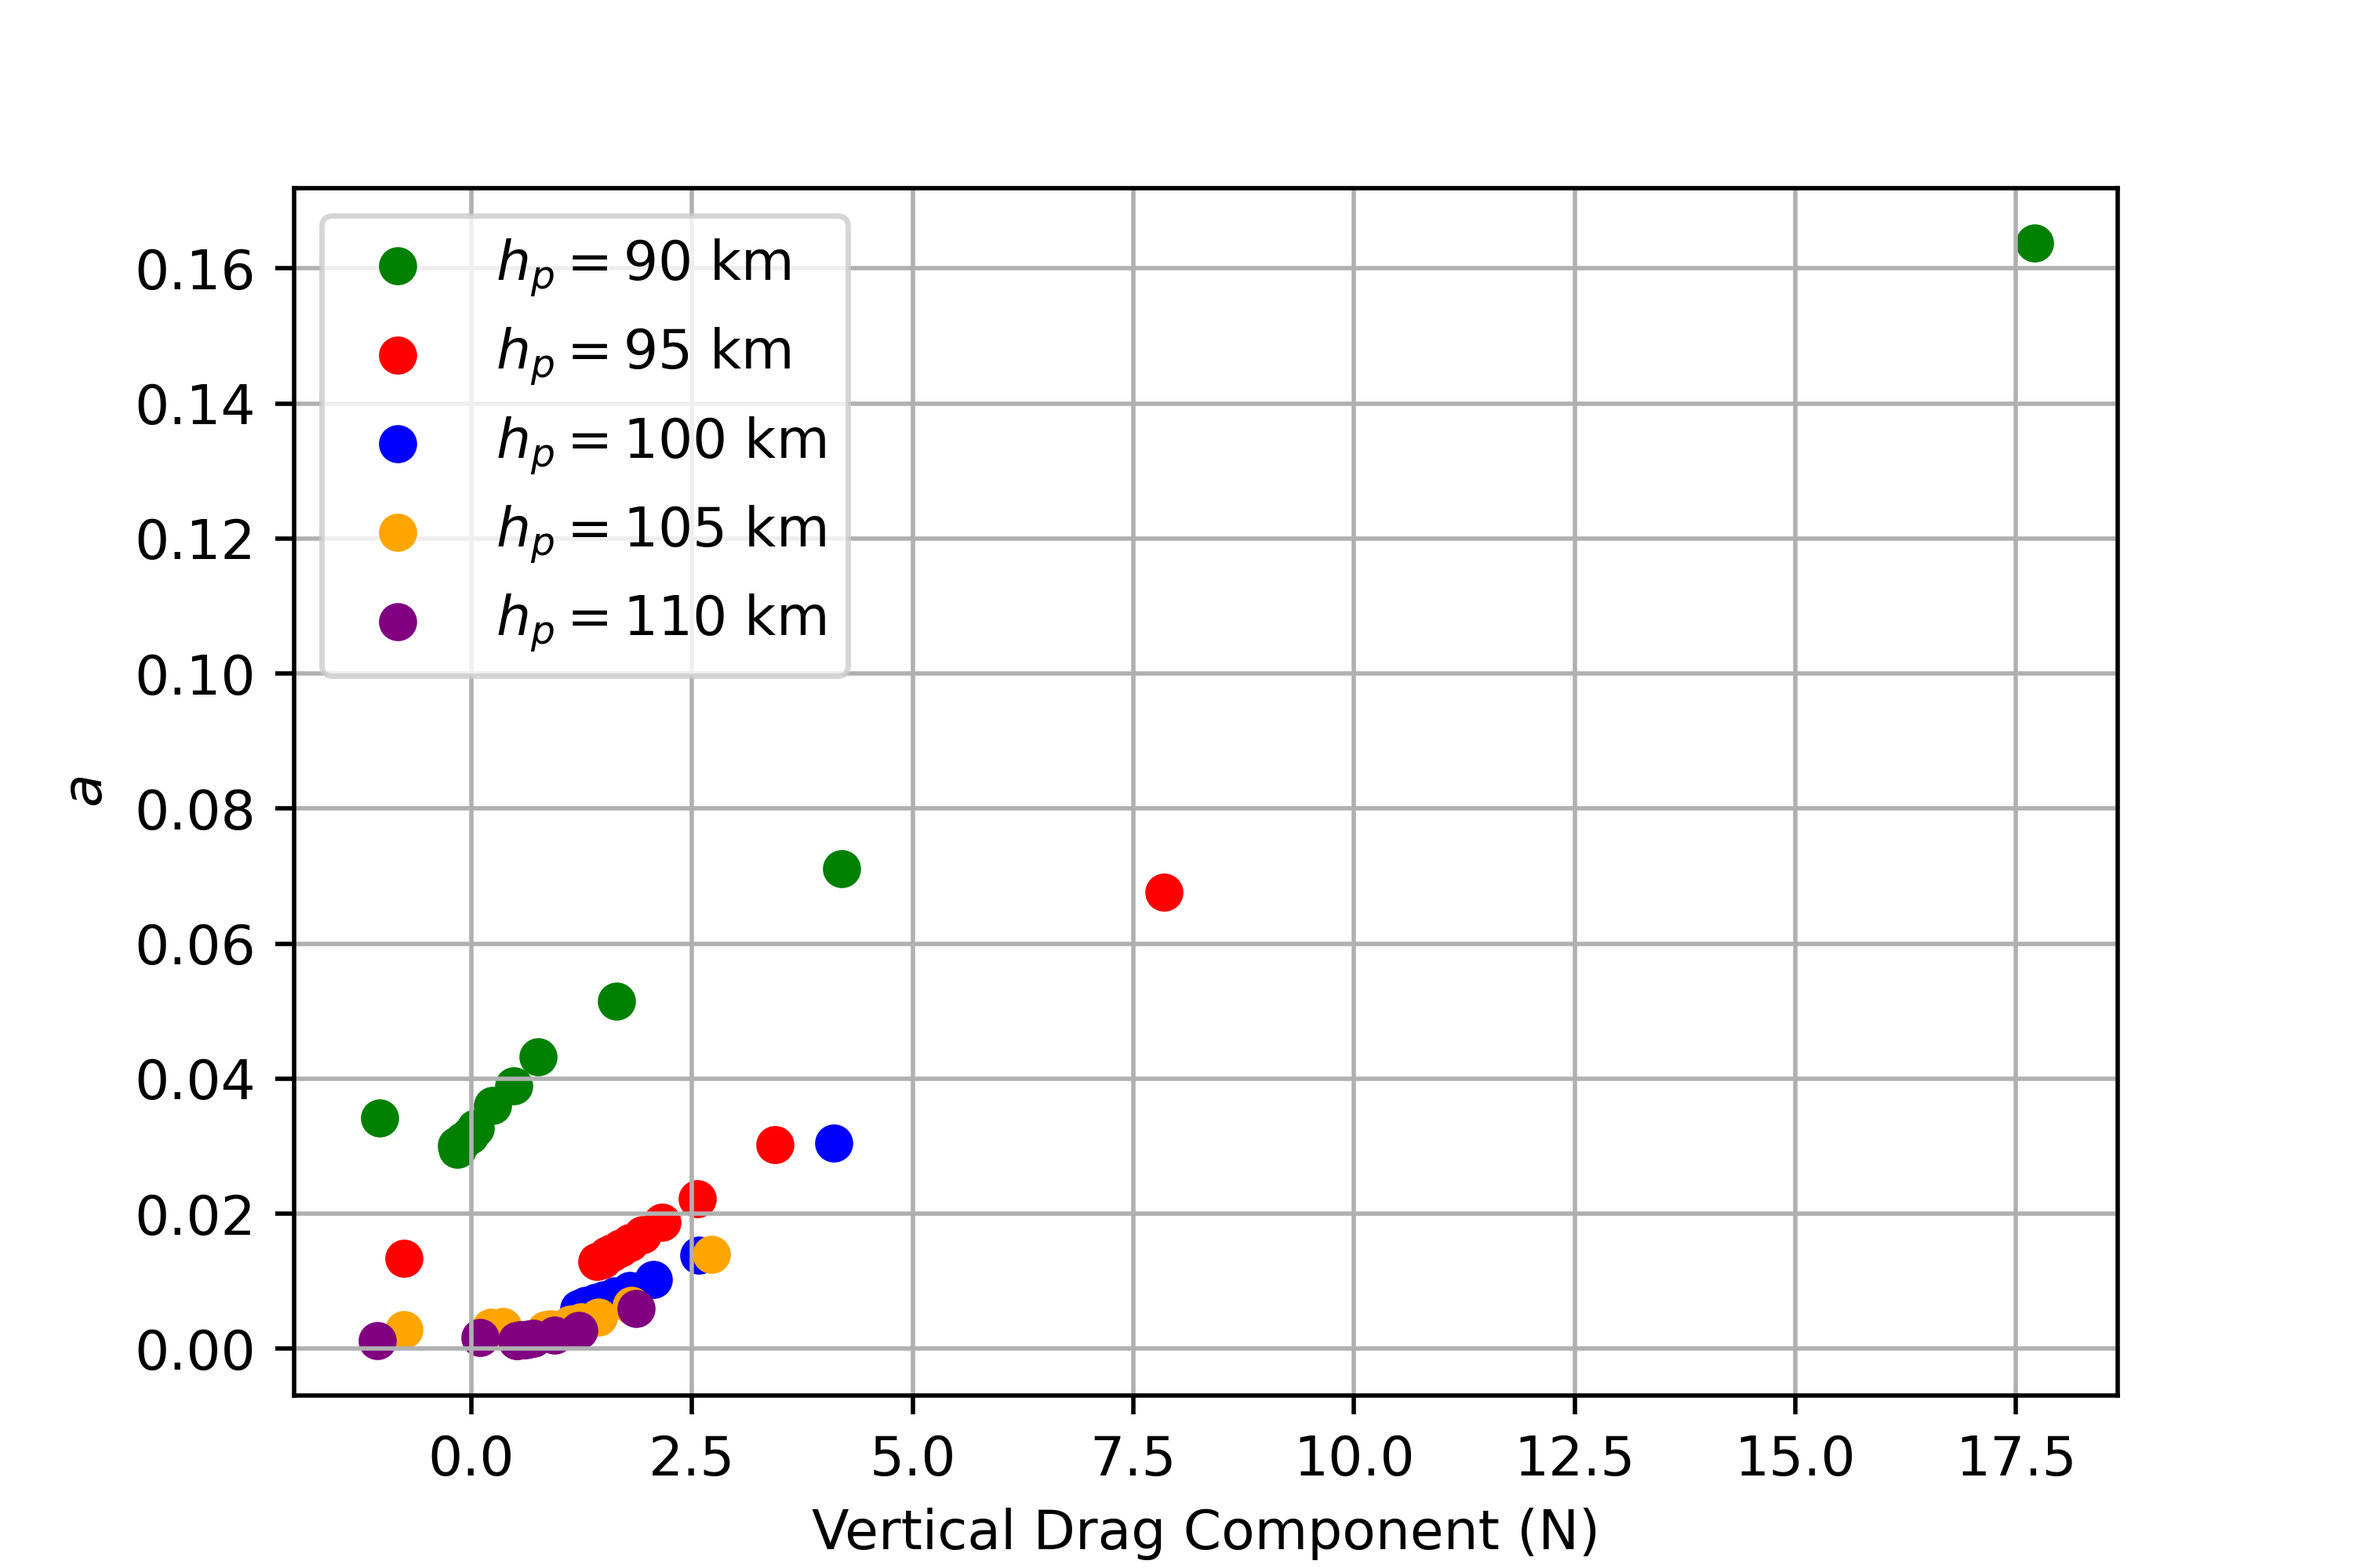
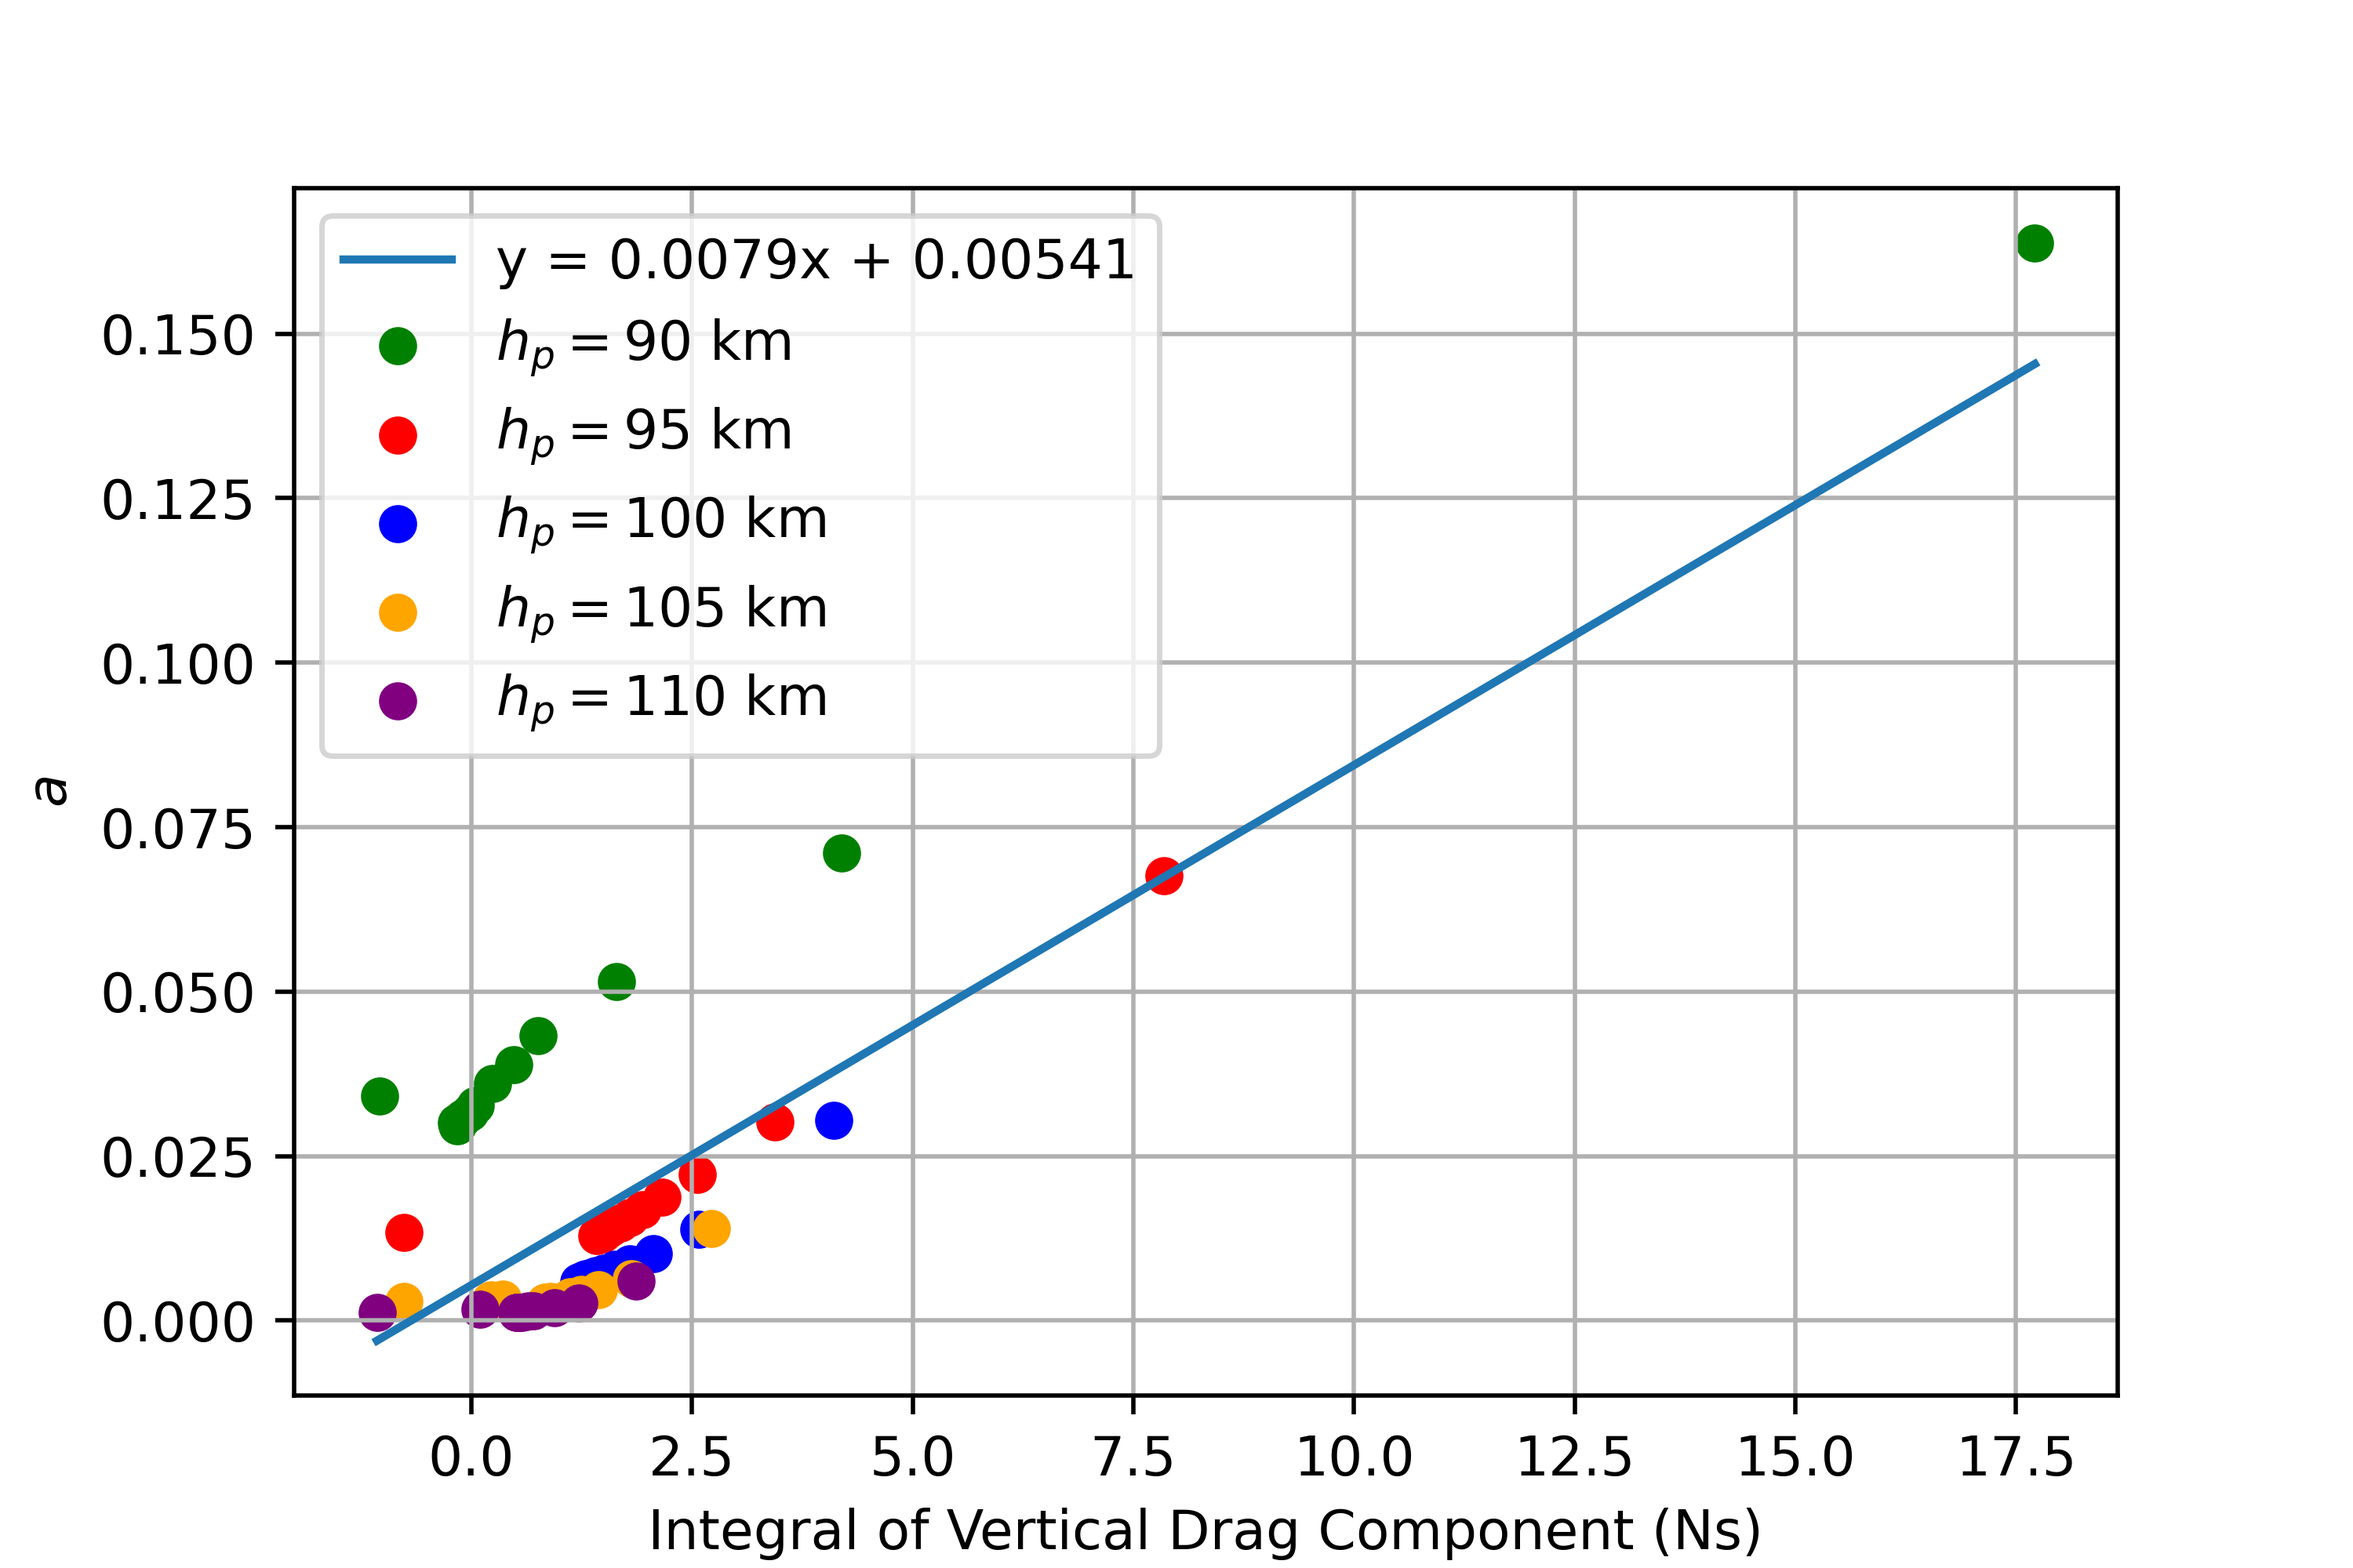
more plots

diff --git a/data_corelation.py b/data_corelation.py
@@ -107,17 +107,38 @@ plt.figure("a_coeff")
 
 #     plt.plot(x, y,'k--', linewidth = "1")
 
-plt.scatter(y090, c_coeff90, color='green', marker='o', label = '$h_p = 90$ km')   
-plt.scatter(y095, c_coeff95, color='red', marker='o', label = '$h_p = 95$ km')   
-plt.scatter(y0100, c_coeff100, color='blue', marker='o',  label = '$h_p = 100$ km')   
-plt.scatter(y0105, c_coeff105, color='orange', marker='o', label = '$h_p = 105$ km')   
-plt.scatter(y0110, c_coeff110, color='purple', marker='o',  label = '$h_p = 110$ km')  
+# plt.scatter(y090, c_coeff90, color='green', marker='o', label = '$h_p = 90$ km')   
+# plt.scatter(y095, c_coeff95, color='red', marker='o', label = '$h_p = 95$ km')   
+# plt.scatter(y0100, c_coeff100, color='blue', marker='o',  label = '$h_p = 100$ km')   
+# plt.scatter(y0105, c_coeff105, color='orange', marker='o', label = '$h_p = 105$ km')   
+# plt.scatter(y0110, c_coeff110, color='purple', marker='o',  label = '$h_p = 110$ km')  
 
-# plt.scatter(y0, a_coeff, color='blue', marker='o')    
+# # plt.scatter(y0, a_coeff, color='blue', marker='o')    
+# plt.legend();plt.grid()
+# plt.xlabel(r"$\gamma_0$ (rad)")
+# plt.ylabel("$c$")
+# fig_acoeff.savefig("all_views/c_coefficient/c_coeff_y0.png")
+
+
+# plt.scatter(drag_int_no_v90, a_coeff90, color='green', marker='o', label = '$h_p = 90$ km')   
+plt.scatter(drag_int_no_v95, a_coeff95, color='red', marker='o', label = '$h_p = 95$ km')   
+plt.scatter(drag_int_no_v100, a_coeff100, color='blue', marker='o',  label = '$h_p = 100$ km')   
+plt.scatter(drag_int_no_v105, a_coeff105, color='orange', marker='o', label = '$h_p = 105$ km')   
+plt.scatter(drag_int_no_v110, a_coeff110, color='purple', marker='o',  label = '$h_p = 110$ km')  
+
+# linear_fit = np.polyfit( drag_int_ver,a_coeff, 1)
+# m = linear_fit[0]
+# b = linear_fit[1]
+
+# x_plot = np.linspace(np.min(drag_int_ver), np.max(drag_int_ver), 1000)
+# y_plot = np.add(b, np.multiply(x_plot,m))
+
+# plt.plot(x_plot,y_plot, label = f"y = {np.round(m,5)}x + {np.round(b,5)}" )
+
 plt.legend();plt.grid()
-plt.xlabel(r"$\gamma_0$ (rad)")
-plt.ylabel("$c$")
-fig_acoeff.savefig("all_views/c_coefficient/c_coeff_y0.png")
+plt.xlabel(r"Integral of Drag w/o velocity (N s$^2$/m$^2$)")
+plt.ylabel("$a$")
+fig_acoeff.savefig("all_views/a_coefficient/a_coeff_drag_integral_no_v.png")
 
 # X = [v090,v095,v0100,v0105,v0110]
 # X = [y090,y095,y0100,y0105,y0110]
